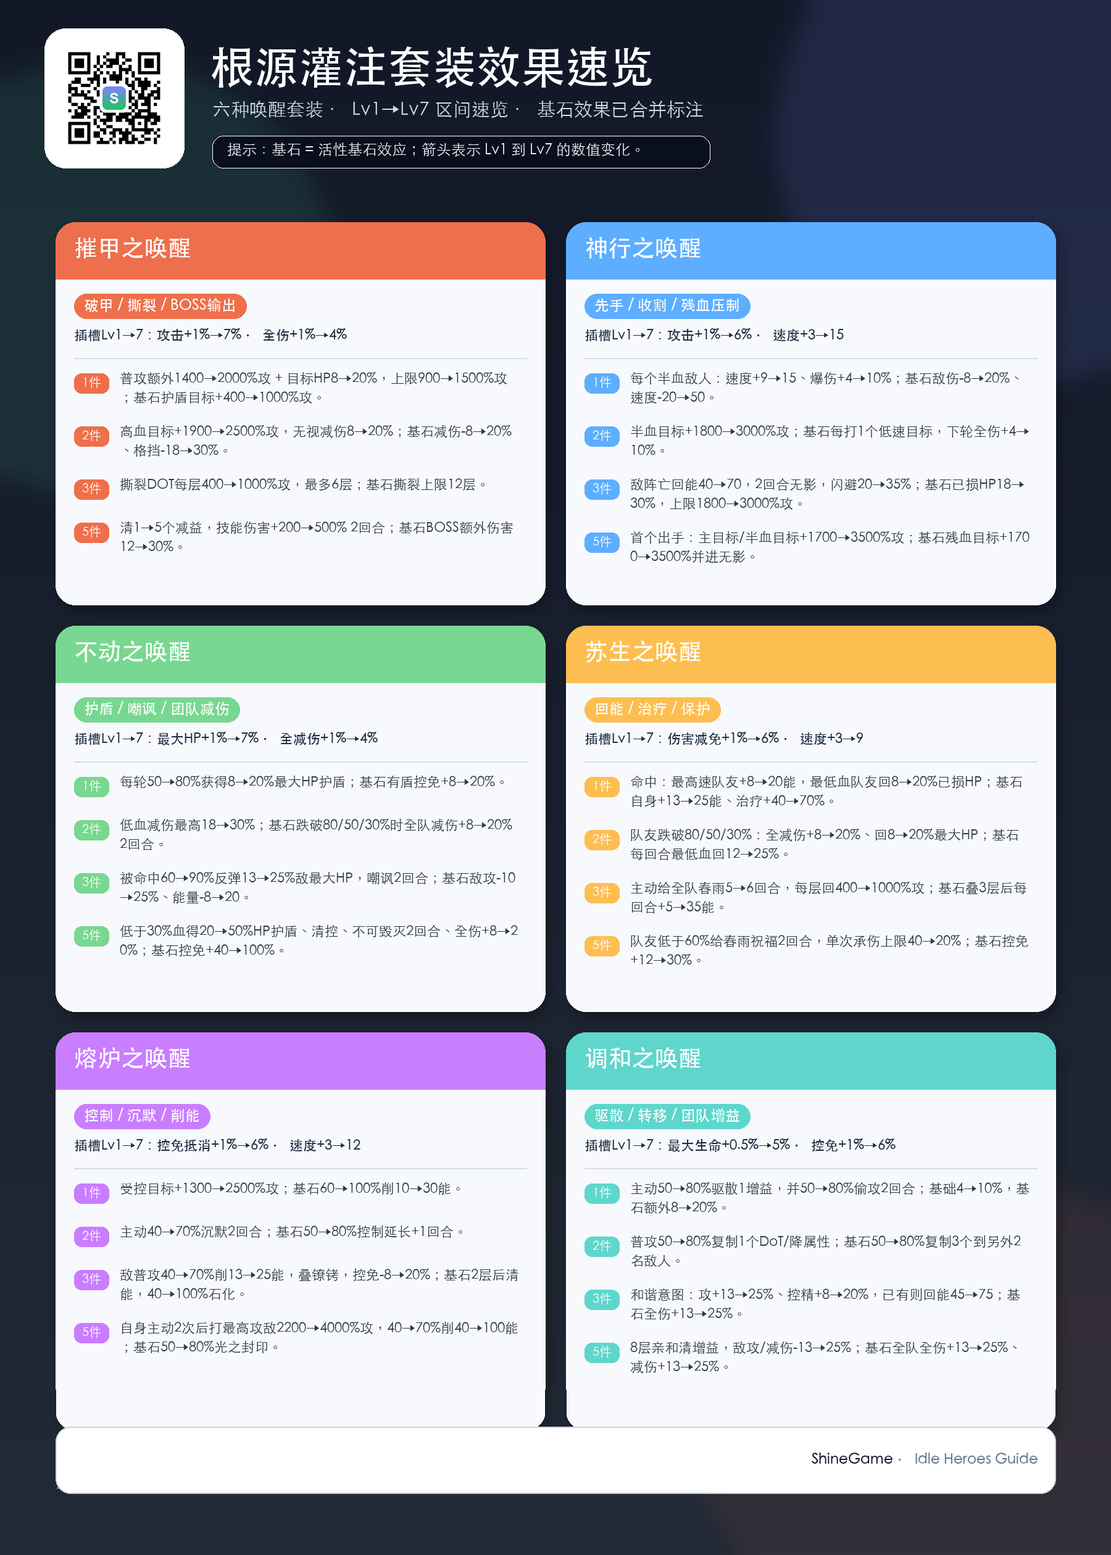
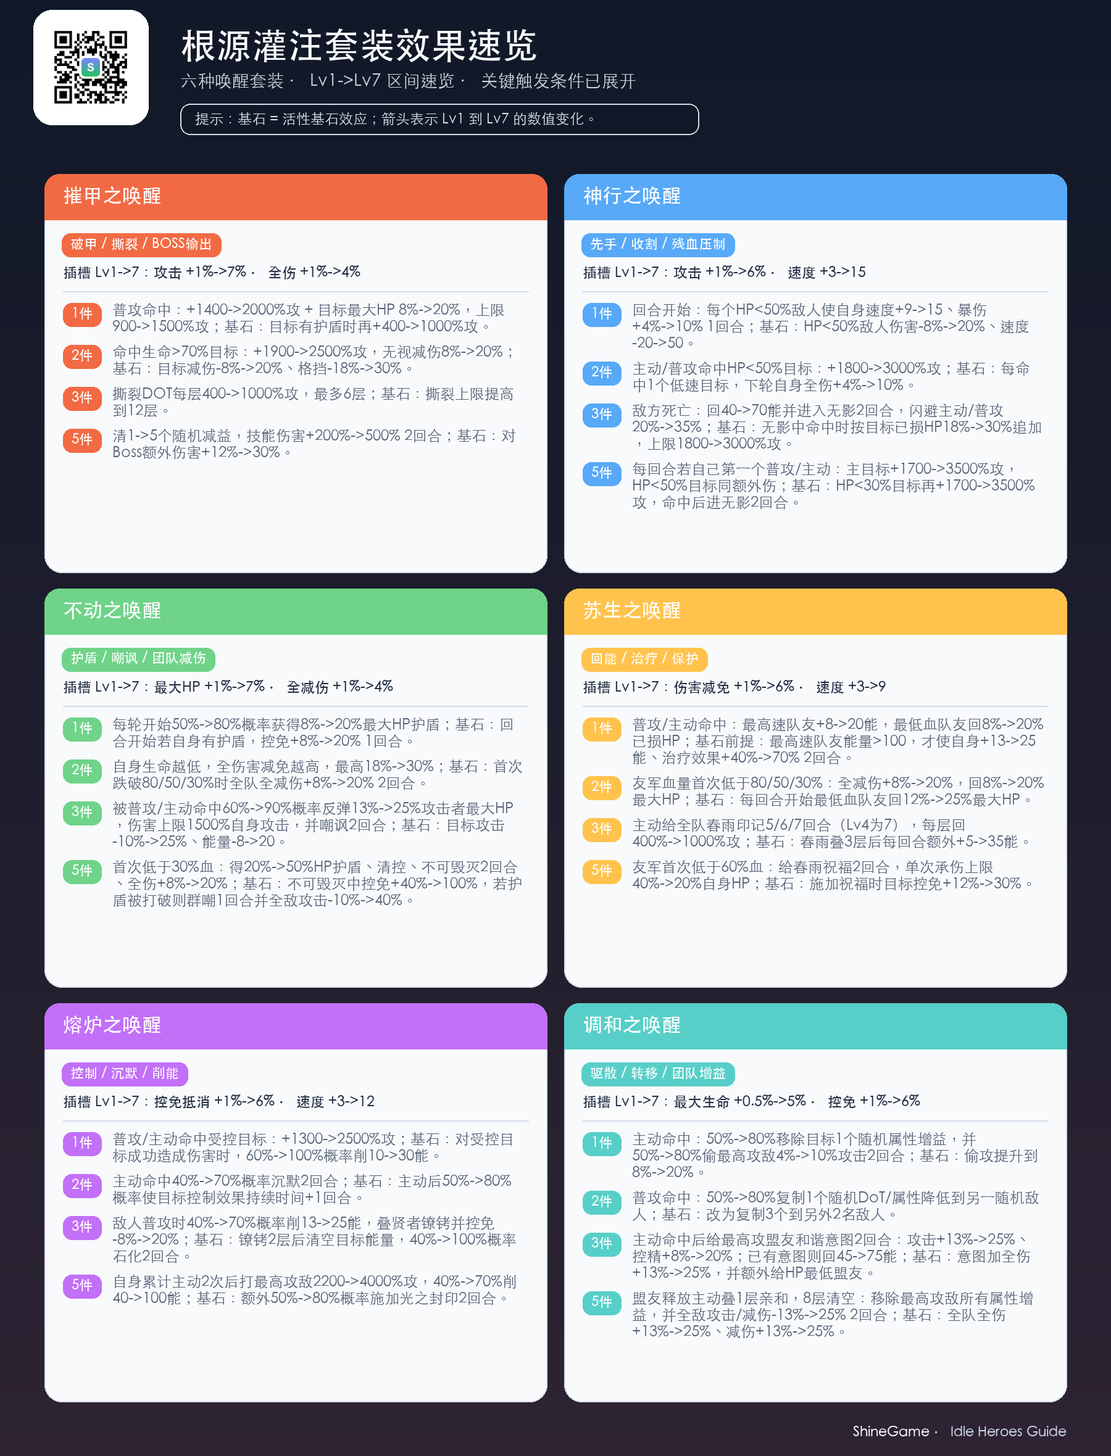
Update root infusion set guide

Changed region(s): [[0.0311, 0.0, 1.0, 0.9898]]

diff --git a/scripts/generate-root-infusion-set-guide.py b/scripts/generate-root-infusion-set-guide.py
@@ -1,0 +1,234 @@
+from pathlib import Path
+
+from PIL import Image, ImageDraw, ImageFont
+
+ROOT = Path(__file__).resolve().parents[1]
+OUT = ROOT / "flipgame" / "images" / "root-infusion-set-guide.png"
+QR = ROOT / "flipgame" / "assets" / "shinegame_pro_qr_logo_real.png"
+
+SECTIONS = [
+    {
+        "name": "摧甲之唤醒",
+        "tag": "破甲 / 撕裂 / BOSS输出",
+        "accent": "#f26a44",
+        "slot": "插槽 Lv1->7：攻击 +1%->7% · 全伤 +1%->4%",
+        "items": [
+            ("1件", "普攻命中：+1400->2000%攻 + 目标最大HP 8%->20%，上限900->1500%攻；基石：目标有护盾时再+400->1000%攻。"),
+            ("2件", "命中生命>70%目标：+1900->2500%攻，无视减伤8%->20%；基石：目标减伤-8%->20%、格挡-18%->30%。"),
+            ("3件", "撕裂DOT每层400->1000%攻，最多6层；基石：撕裂上限提高到12层。"),
+            ("5件", "清1->5个随机减益，技能伤害+200%->500% 2回合；基石：对Boss额外伤害+12%->30%。"),
+        ],
+    },
+    {
+        "name": "神行之唤醒",
+        "tag": "先手 / 收割 / 残血压制",
+        "accent": "#58a9f7",
+        "slot": "插槽 Lv1->7：攻击 +1%->6% · 速度 +3->15",
+        "items": [
+            ("1件", "回合开始：每个HP<50%敌人使自身速度+9->15、暴伤+4%->10% 1回合；基石：HP<50%敌人伤害-8%->20%、速度-20->50。"),
+            ("2件", "主动/普攻命中HP<50%目标：+1800->3000%攻；基石：每命中1个低速目标，下轮自身全伤+4%->10%。"),
+            ("3件", "敌方死亡：回40->70能并进入无影2回合，闪避主动/普攻20%->35%；基石：无影中命中时按目标已损HP18%->30%追加，上限1800->3000%攻。"),
+            ("5件", "每回合若自己第一个普攻/主动：主目标+1700->3500%攻，HP<50%目标同额外伤；基石：HP<30%目标再+1700->3500%攻，命中后进无影2回合。"),
+        ],
+    },
+    {
+        "name": "不动之唤醒",
+        "tag": "护盾 / 嘲讽 / 团队减伤",
+        "accent": "#6fd389",
+        "slot": "插槽 Lv1->7：最大HP +1%->7% · 全减伤 +1%->4%",
+        "items": [
+            ("1件", "每轮开始50%->80%概率获得8%->20%最大HP护盾；基石：回合开始若自身有护盾，控免+8%->20% 1回合。"),
+            ("2件", "自身生命越低，全伤害减免越高，最高18%->30%；基石：首次跌破80/50/30%时全队全减伤+8%->20% 2回合。"),
+            ("3件", "被普攻/主动命中60%->90%概率反弹13%->25%攻击者最大HP，伤害上限1500%自身攻击，并嘲讽2回合；基石：目标攻击-10%->25%、能量-8->20。"),
+            ("5件", "首次低于30%血：得20%->50%HP护盾、清控、不可毁灭2回合、全伤+8%->20%；基石：不可毁灭中控免+40%->100%，若护盾被打破则群嘲1回合并全敌攻击-10%->40%。"),
+        ],
+    },
+    {
+        "name": "苏生之唤醒",
+        "tag": "回能 / 治疗 / 保护",
+        "accent": "#ffc34d",
+        "slot": "插槽 Lv1->7：伤害减免 +1%->6% · 速度 +3->9",
+        "items": [
+            ("1件", "普攻/主动命中：最高速队友+8->20能，最低血队友回8%->20%已损HP；基石前提：最高速队友能量>100，才使自身+13->25能、治疗效果+40%->70% 2回合。"),
+            ("2件", "友军血量首次低于80/50/30%：全减伤+8%->20%，回8%->20%最大HP；基石：每回合开始最低血队友回12%->25%最大HP。"),
+            ("3件", "主动给全队春雨印记5/6/7回合（Lv4为7），每层回400%->1000%攻；基石：春雨叠3层后每回合额外+5->35能。"),
+            ("5件", "友军首次低于60%血：给春雨祝福2回合，单次承伤上限40%->20%自身HP；基石：施加祝福时目标控免+12%->30%。"),
+        ],
+    },
+    {
+        "name": "熔炉之唤醒",
+        "tag": "控制 / 沉默 / 削能",
+        "accent": "#c270f7",
+        "slot": "插槽 Lv1->7：控免抵消 +1%->6% · 速度 +3->12",
+        "items": [
+            ("1件", "普攻/主动命中受控目标：+1300->2500%攻；基石：对受控目标成功造成伤害时，60%->100%概率削10->30能。"),
+            ("2件", "主动命中40%->70%概率沉默2回合；基石：主动后50%->80%概率使目标控制效果持续时间+1回合。"),
+            ("3件", "敌人普攻时40%->70%概率削13->25能，叠贤者镣铐并控免-8%->20%；基石：镣铐2层后清空目标能量，40%->100%概率石化2回合。"),
+            ("5件", "自身累计主动2次后打最高攻敌2200->4000%攻，40%->70%削40->100能；基石：额外50%->80%概率施加光之封印2回合。"),
+        ],
+    },
+    {
+        "name": "调和之唤醒",
+        "tag": "驱散 / 转移 / 团队增益",
+        "accent": "#57cfc8",
+        "slot": "插槽 Lv1->7：最大生命 +0.5%->5% · 控免 +1%->6%",
+        "items": [
+            ("1件", "主动命中：50%->80%移除目标1个随机属性增益，并50%->80%偷最高攻敌4%->10%攻击2回合；基石：偷攻提升到8%->20%。"),
+            ("2件", "普攻命中：50%->80%复制1个随机DoT/属性降低到另一随机敌人；基石：改为复制3个到另外2名敌人。"),
+            ("3件", "主动命中后给最高攻盟友和谐意图2回合：攻击+13%->25%、控精+8%->20%；已有意图则回45->75能；基石：意图加全伤+13%->25%，并额外给HP最低盟友。"),
+            ("5件", "盟友释放主动叠1层亲和，8层清空：移除最高攻敌所有属性增益，并全敌攻击/减伤-13%->25% 2回合；基石：全队全伤+13%->25%、减伤+13%->25%。"),
+        ],
+    },
+]
+
+
+def font(size, bold=False):
+    candidates = [
+        "/System/Library/Fonts/STHeiti Medium.ttc" if bold else "/System/Library/Fonts/STHeiti Light.ttc",
+        "/System/Library/Fonts/Supplemental/Songti.ttc",
+        "/Library/Fonts/Arial Unicode.ttf",
+    ]
+    for candidate in candidates:
+        if Path(candidate).exists():
+            return ImageFont.truetype(candidate, size=size)
+    return ImageFont.load_default()
+
+
+def blend(c1, c2, t):
+    return tuple(round(c1[i] * (1 - t) + c2[i] * t) for i in range(3))
+
+
+def rounded(draw, box, radius, fill, outline=None, width=1):
+    draw.rounded_rectangle(box, radius=radius, fill=fill, outline=outline, width=width)
+
+
+def text_size(draw, text, fnt):
+    bbox = draw.textbbox((0, 0), text, font=fnt)
+    return bbox[2] - bbox[0], bbox[3] - bbox[1]
+
+
+def wrap_text(draw, text, fnt, max_width):
+    tokens = []
+    current = ""
+    for char in text:
+        if char.isascii() and not char.isspace():
+            current += char
+            continue
+        if current:
+            tokens.append(current)
+            current = ""
+        tokens.append(char)
+    if current:
+        tokens.append(current)
+
+    lines = []
+    current = ""
+    for token in tokens:
+        if not current and token.isspace():
+            continue
+        test = current + token
+        if text_size(draw, test, fnt)[0] <= max_width or not current:
+            current = test
+        else:
+            lines.append(current)
+            current = token
+    if current:
+        lines.append(current)
+    return lines
+
+
+def draw_wrapped(draw, xy, text, fnt, fill, max_width, line_gap=6):
+    x, y = xy
+    lines = wrap_text(draw, text, fnt, max_width)
+    line_h = text_size(draw, "国", fnt)[1] + line_gap
+    for i, line in enumerate(lines):
+        draw.text((x, y + i * line_h), line, font=fnt, fill=fill)
+    return y + line_h * len(lines)
+
+
+def draw_pill(draw, x, y, text, fill, text_size_px=22):
+    fnt = font(text_size_px, True)
+    tw, th = text_size(draw, text, fnt)
+    rounded(draw, (x, y, x + tw + 28, y + 38), 14, fill)
+    draw.text((x + 14, y + (38 - th) / 2 - 2), text, font=fnt, fill="#ffffff")
+
+
+def draw_light_brand(draw, right, y):
+    fnt = font(22, True)
+    parts = [("ShineGame", "#f8fafc"), (" · Idle Heroes Guide", "#cbd5e1")]
+    total_w = sum(text_size(draw, text, fnt)[0] for text, _ in parts)
+    x = right - total_w
+    for text, fill in parts:
+        draw.text((x, y), text, font=fnt, fill=fill)
+        x += text_size(draw, text, fnt)[0]
+
+
+def draw_section(draw, section, x, y, w, h):
+    accent = section["accent"]
+    ink = "#243044"
+    muted = "#586476"
+    rounded(draw, (x, y, x + w, y + h), 28, "#f8fafc", "#d8e0ea", 2)
+    rounded(draw, (x, y, x + w, y + 72), 24, accent)
+    draw.rectangle((x, y + 48, x + w, y + 74), fill=accent)
+    draw.text((x + 30, y + 18), section["name"], font=font(32, True), fill="#ffffff")
+
+    content_y = y + 96
+    draw_pill(draw, x + 28, content_y, section["tag"], accent, 22)
+    content_y += 52
+    draw.text((x + 30, content_y), section["slot"], font=font(23, True), fill=ink)
+    content_y += 42
+    draw.line((x + 30, content_y, x + w - 30, content_y), fill="#d5dee8", width=2)
+    content_y += 18
+
+    label_w = 62
+    for label, text in section["items"]:
+        draw_pill(draw, x + 30, content_y + 1, label, accent, 22)
+        text_x = x + 30 + label_w + 18
+        content_y = draw_wrapped(draw, (text_x, content_y), text, font(24), muted, w - 30 - label_w - 54, line_gap=7)
+        content_y += 14
+
+
+def main():
+    width, height = 1800, 2360
+    img = Image.new("RGB", (width, height), "#111827")
+    draw = ImageDraw.Draw(img)
+    for y in range(height):
+        t = y / height
+        draw.line((0, y, width, y), fill=blend((16, 24, 39), (45, 35, 51), t))
+
+    margin = 72
+    qr_size = 150
+    qr_x = margin
+    qr_y = 34
+    rounded(draw, (qr_x - 18, qr_y - 18, qr_x + qr_size + 18, qr_y + qr_size + 18), 30, "#ffffff")
+    qr = Image.open(QR).convert("RGB").resize((qr_size, qr_size), Image.Resampling.LANCZOS)
+    img.paste(qr, (qr_x, qr_y))
+
+    title_x = qr_x + qr_size + 70
+    draw.text((title_x, 44), "根源灌注套装效果速览", font=font(58, True), fill="#f8fafc")
+    draw.text((title_x, 116), "六种唤醒套装 · Lv1->Lv7 区间速览 · 关键触发条件已展开", font=font(28), fill="#cbd5e1")
+    rounded(draw, (title_x, 168, title_x + 840, 218), 16, "#101827", "#d6dee8", 2)
+    draw.text((title_x + 24, 181), "提示：基石 = 活性基石效应；箭头表示 Lv1 到 Lv7 的数值变化。", font=font(23), fill="#dbe4ee")
+
+    grid_x = margin
+    grid_y = 282
+    gap_x = 28
+    gap_y = 26
+    card_w = (width - margin * 2 - gap_x) // 2
+    card_h = 646
+    for index, section in enumerate(SECTIONS):
+        row = index // 2
+        col = index % 2
+        x = grid_x + col * (card_w + gap_x)
+        y = grid_y + row * (card_h + gap_y)
+        draw_section(draw, section, x, y, card_w, card_h)
+
+    draw_light_brand(draw, width - margin, height - 50)
+
+    OUT.parent.mkdir(parents=True, exist_ok=True)
+    img.save(OUT, optimize=True)
+    print(OUT)
+
+
+if __name__ == "__main__":
+    main()

diff --git a/IHassistant/knowledge/imprint infusion/root-infusion-sets.md b/IHassistant/knowledge/imprint infusion/root-infusion-sets.md
@@ -1,0 +1,112 @@
+# 根源灌注唤醒套装
+
+## 来源
+
+- 用户 2026-07-07 提供 Excel：`根源灌注全套装属性表.xlsx`。
+- 攻略图输出：`flipgame/images/root-infusion-set-guide.png`。
+- 生成脚本：`scripts/generate-root-infusion-set-guide.py`。
+
+## 总体规则
+
+- 根源灌注唤醒套装共有 6 套：摧甲、神行、不动、苏生、熔炉、调和。
+- 每套都有插槽 Lv1 到 Lv7 的基础属性。
+- 套装效果按 1 件、2 件、3 件、5 件生效。
+- `基石` 指 Excel 中的 `活性基石效应` 或 `基石套装效果`。基石效果不是无条件泛用，必须保留对应触发条件。
+
+## 关键修正点
+
+- `苏生之唤醒` 1 件基石：只有在 `最高速队友能量超过 100` 时，才使自身额外回能并提升治疗效果 2 回合。
+- `神行之唤醒` 3 件基石：需要自身仍处于 `无影无形` 状态，并在主动技能或基本攻击命中目标时，才按目标已损生命追加伤害。
+- `不动之唤醒` 3 件常规效果：反弹伤害有上限，最高不超过自身攻击的 1500%。
+- `不动之唤醒` 5 件基石：不可毁灭状态下提升控制免疫；若自身护盾被打破，还会立即嘲讽所有敌人 1 回合，并降低所有敌人攻击力 2 回合。
+- `苏生之唤醒` 3 件常规效果：春雨印记持续回合不是简单 5 -> 6，Lv4 为 7 回合，其他等级按表为 5/6。
+- `调和之唤醒` 3 件常规效果：主动技能命中目标后，给攻击最高的 1 个盟友 2 回合 `和谐意图`；如果目标已经有 `和谐意图`，则为其恢复能量。
+- `调和之唤醒` 3 件基石：`和谐意图` 额外提供全伤害加成，并在主动技能命中某个目标后，额外赋予 1 个 HP 最低的盟友 2 回合 `和谐意图`。
+
+## 摧甲之唤醒
+
+插槽 Lv1 -> Lv7：
+
+- 攻击加成：1% -> 7%。
+- 全伤害加成：1% -> 4%。
+
+套装效果：
+
+- 1 件：普攻命中后，额外对目标造成 1400% -> 2000% 攻击伤害；附带目标最大 HP 8% -> 20% 的伤害，上限为自身攻击 900% -> 1500%。基石：目标带有护盾时，额外造成 400% -> 1000% 攻击伤害。
+- 2 件：对生命高于 70% 的目标额外造成 1900% -> 2500% 攻击伤害，并无视目标 8% -> 20% 伤害减免。基石：目标减伤率降低 8% -> 20%，格挡率降低 18% -> 30%。
+- 3 件：每层撕裂 DOT 造成 400% -> 1000% 攻击伤害，常规最大 6 层。基石：撕裂最大堆叠层数提高到 12 层。
+- 5 件：清除 1 -> 5 个随机减益，技能伤害提升 200% -> 500%，持续 2 回合。基石：对 Boss 额外伤害提高 12% -> 30%。
+
+## 神行之唤醒
+
+插槽 Lv1 -> Lv7：
+
+- 攻击加成：1% -> 6%。
+- 速度加成：3 -> 15。
+
+套装效果：
+
+- 1 件：每回合开始时，每存在 1 个 HP 小于 50% 的敌人，自身速度提升 9 -> 15，暴击伤害提升 4% -> 10%，持续 1 回合。基石：对 HP 小于 50% 的敌人，使其 1 回合内伤害降低 8% -> 20%，速度降低 20 -> 50。
+- 2 件：主动技能或基本攻击击中 HP 小于 50% 的目标时，立即对其施加额外 1800% -> 3000% 攻击伤害。基石：每攻击 1 个速度低于自身的目标，在下一轮开始时将自身全部伤害提升 4% -> 10%。
+- 3 件：当敌人在战场上死亡时，自身立即恢复 40 -> 70 能量并进入 `无影无形` 状态 2 回合；无影状态有 20% -> 35% 概率躲避主动技能或基本攻击伤害。基石：当主动技能或基本攻击击中目标时，如果自身仍处于 `无影无形` 状态，额外按目标已损失 HP 的 18% -> 30% 造成伤害，伤害上限为自身攻击 1800% -> 3000%。
+- 5 件：每回合开始时，如果自身是战场上第一个释放基本攻击或主动技能的英雄，对目标施加额外 1700% -> 3500% 攻击伤害，并对 HP 小于 50% 的目标施加同等倍率攻击伤害。基石：对 HP 小于 30% 的目标施加额外 1700% -> 3500% 攻击伤害；如果攻击成功命中，自身进入 `无影无形` 状态 2 回合。
+
+## 不动之唤醒
+
+插槽 Lv1 -> Lv7：
+
+- 最大生命值加成：1% -> 7%。
+- 全伤害减免加成：1% -> 4%。
+
+套装效果：
+
+- 1 件：每轮开始时，有 50% -> 80% 概率为自身施加最大生命值 8% -> 20% 的护盾。基石：每回合开始时，若自身持有护盾，提升自身控制免疫 8% -> 20%，持续 1 回合。
+- 2 件：自身生命值越低，全伤害减免效果越高，最高 18% -> 30%。基石：自身生命值首次降至 80% / 50% / 30% 以下时，提升所有友军全伤害减免 8% -> 20%，持续 2 回合。
+- 3 件：自身被普攻或主动技能命中时，有 60% -> 90% 概率对攻击者造成其最大生命值 13% -> 25% 的伤害，伤害上限为自身攻击的 1500%，并嘲讽目标 2 回合。基石：成功造成反弹伤害后，额外降低目标 10% -> 25% 攻击力 2 回合，并削减目标 8 -> 20 能量。
+- 5 件：自身生命值首次降至 30% 以下时，获得最大生命值 20% -> 50% 的护盾，清除自身所有控制效果，进入不可毁灭状态 2 回合；不可毁灭状态下全伤害提升 8% -> 20%。基石：在不可毁灭状态下，提升自身控制免疫 40% -> 100%；此状态下若自身护盾被打破，立即嘲讽所有敌人 1 回合，并降低所有敌人 10% -> 40% 攻击力 2 回合。
+
+## 苏生之唤醒
+
+插槽 Lv1 -> Lv7：
+
+- 伤害减免加成：1% -> 6%。
+- 速度加成：3 -> 9。
+
+套装效果：
+
+- 1 件：普攻或主动技能命中时，给速度最高队友 8 -> 20 能量，并给血量最低队友回复其已损生命 8% -> 20%。基石：当最高速队友能量超过 100 时，自身额外获得 13 -> 25 能量，并使治疗效果提升 40% -> 70%，持续 2 回合。
+- 2 件：友军血量首次低于 80% / 50% / 30% 时，提升全伤害减免 8% -> 20%，并回复最大生命值 8% -> 20%。基石：每回合开始，给血量最低队友回复最大生命值 12% -> 25%。
+- 3 件：释放主动技能时，给全体友军 `春雨印记`，持续回合按 Lv1 -> Lv7 为 5 / 6 / 6 / 7 / 6 / 6 / 6；每层回复 400% -> 1000% 攻击等量生命。基石：春雨印记叠 3 层后，每回合额外赠送 5 -> 35 能量。
+- 5 件：友军血量首次低于 60% 时，施加 `春雨祝福`，持续 2 回合；抵消的单次伤害上限不超过自身 40% -> 20% 血量。基石：施加春雨祝福时，额外提升目标控制免疫 12% -> 30%。
+
+## 熔炉之唤醒
+
+插槽 Lv1 -> Lv7：
+
+- 控制免疫抵消加成：1% -> 6%。
+- 速度加成：3 -> 12。
+
+套装效果：
+
+- 1 件：基本攻击或主动技能击中受控目标时，额外施加 1300% -> 2500% 攻击伤害。基石：当对受控目标成功施加伤害时，有 60% -> 100% 概率额外减少目标 10 -> 30 能量。
+- 2 件：主动技能击中目标时，有 40% -> 70% 概率让目标沉默 2 回合。基石：释放主动技能后，有 50% -> 80% 概率将对目标的控制效果持续时间增加 1 回合。
+- 3 件：当敌人释放基本攻击时，有 40% -> 70% 概率减少目标 13 -> 25 能量，施加 1 层 `贤者镣铐`，最多 2 层，并减少目标控制免疫 8% -> 20%。基石：目标身上的贤者镣铐叠加到 2 层时，立即移除所有贤者镣铐，清除所有能量，并有 40% -> 100% 概率施加 `石化-星岩之锁` 2 回合。
+- 5 件：自身累计释放 2 次主动技能后，对攻击力最高的 1 个敌人施加 2200% -> 4000% 攻击伤害，并有 40% -> 70% 概率降低目标 40 -> 100 能量。基石：额外有 50% -> 80% 概率对目标施加光之封印，持续 2 回合。
+
+## 调和之唤醒
+
+插槽 Lv1 -> Lv7：
+
+- 最大生命加成：0.5% -> 5%。
+- 控制免疫加成：1% -> 6%。
+
+套装效果：
+
+- 1 件：主动技能击中目标时，有 50% -> 80% 概率从目标中移除 1 个随机属性增益，并有 50% -> 80% 概率从攻击力最高的敌人身上偷取 4% -> 10% 攻击，持续 2 回合。基石：偷取攻击比例提升到 8% -> 20%。
+- 2 件：基本攻击击中目标时，有 50% -> 80% 概率将 1 个随机 DoT 或属性降低效果从一个随机敌人复制到另一个随机敌人身上。基石：改为将 3 个随机 DoT 或属性削减效果从 1 个随机敌人复制到另外 2 个随机敌人。
+- 3 件：主动技能击中目标后，给予攻击力最高的 1 个盟友 2 回合 `和谐意图`。和谐意图不可堆叠，攻击增加 13% -> 25%，控制精度增加 8% -> 20%；如果目标已经具有和谐意图，则恢复 45 -> 75 能量。基石：和谐意图还会使目标所有伤害增加 13% -> 25%；主动技能击中某个目标后，额外赋予 1 个 HP 最低的盟友 2 回合和谐意图。
+- 5 件：当盟友释放主动技能时，获得 1 层 `万物亲和力`。达到 8 层时，清除所有层，立即移除攻击最高的 1 个敌人的所有属性增益，并将所有敌人的攻击减少 13% -> 25%，伤害减免减少 13% -> 25%，持续 2 回合。基石：额外增加所有盟友全伤害 13% -> 25% 和伤害减免 13% -> 25%，持续 2 回合。
+
+## 待确认
+
+- Excel 表格为整理稿，部分中文名称可能是翻译或转写口径；如果后续有游戏内原文截图，应以截图原文复核套装名和技能名。

diff --git a/docs/guide-images.md b/docs/guide-images.md
@@ -12,6 +12,7 @@
 - 觉醒概率新版图由 `scripts/generate-awakening-rate-guide.py` 生成，数据来自旧图 `flipgame/images/juexingailv.jpg`，输出为 `flipgame/images/awakening-rate-guide.png`。
 - 印痕灌注新版图由 `scripts/generate-imprint-infusion-guide.py` 生成，数据来自旧图 `flipgame/images/guanzhu.png`，输出为 `flipgame/images/imprint-infusion-guide.png`。
 - 印痕灌注分支选择图由 `scripts/generate-imprint-branch-guide.py` 生成，数据来自用户提供的利刃、强壁、精神三张截图和 `IHassistant/knowledge/imprint infusion/README.md`，输出为 `flipgame/images/imprint-branch-guide.png`。
+- 根源灌注套装效果图由 `scripts/generate-root-infusion-set-guide.py` 生成，数据来自用户提供 Excel `根源灌注全套装属性表.xlsx` 和 `IHassistant/knowledge/imprint infusion/root-infusion-sets.md`，输出为 `flipgame/images/root-infusion-set-guide.png`。
 - 分解资质魂力新版图由 `scripts/generate-breakdown-soulpower-guide.py` 生成，数据来自旧图 `flipgame/images/fengjiehunli.png`，输出为 `flipgame/images/breakdown-soulpower-guide.png`。
 - 升格需求新版图由 `scripts/generate-merge-requirements-guide.py` 生成，数据来自旧图 `flipgame/images/shengexuqiu.jpg`，输出为 `flipgame/images/merge-requirements-guide.png`。
 - 根源等级新版图由 `scripts/generate-root-level-guide.py` 生成，数据来自旧图 `flipgame/images/genyuan.jpeg` 和 `IHassistant/knowledge/mechanics/hero-upgrade-progression.md`，输出为 `flipgame/images/root-level-guide.png`。

diff --git a/IHassistant/knowledge/imprint infusion/README.md b/IHassistant/knowledge/imprint infusion/README.md
@@ -36,6 +36,8 @@
 
 分支选择攻略图由 `scripts/generate-imprint-branch-guide.py` 生成，输出为 `flipgame/images/imprint-branch-guide.png`。
 
+根源灌注唤醒套装效果见 `root-infusion-sets.md`，攻略图由 `scripts/generate-root-infusion-set-guide.py` 生成，输出为 `flipgame/images/root-infusion-set-guide.png`。
+
 | 灌注等级 | 点数 | 灌注等级 | 点数 | 灌注等级 | 点数 |
 | ---: | ---: | ---: | ---: | ---: | ---: |
 | 16 | 2 | 26 | 2 | 36 | 2 |
